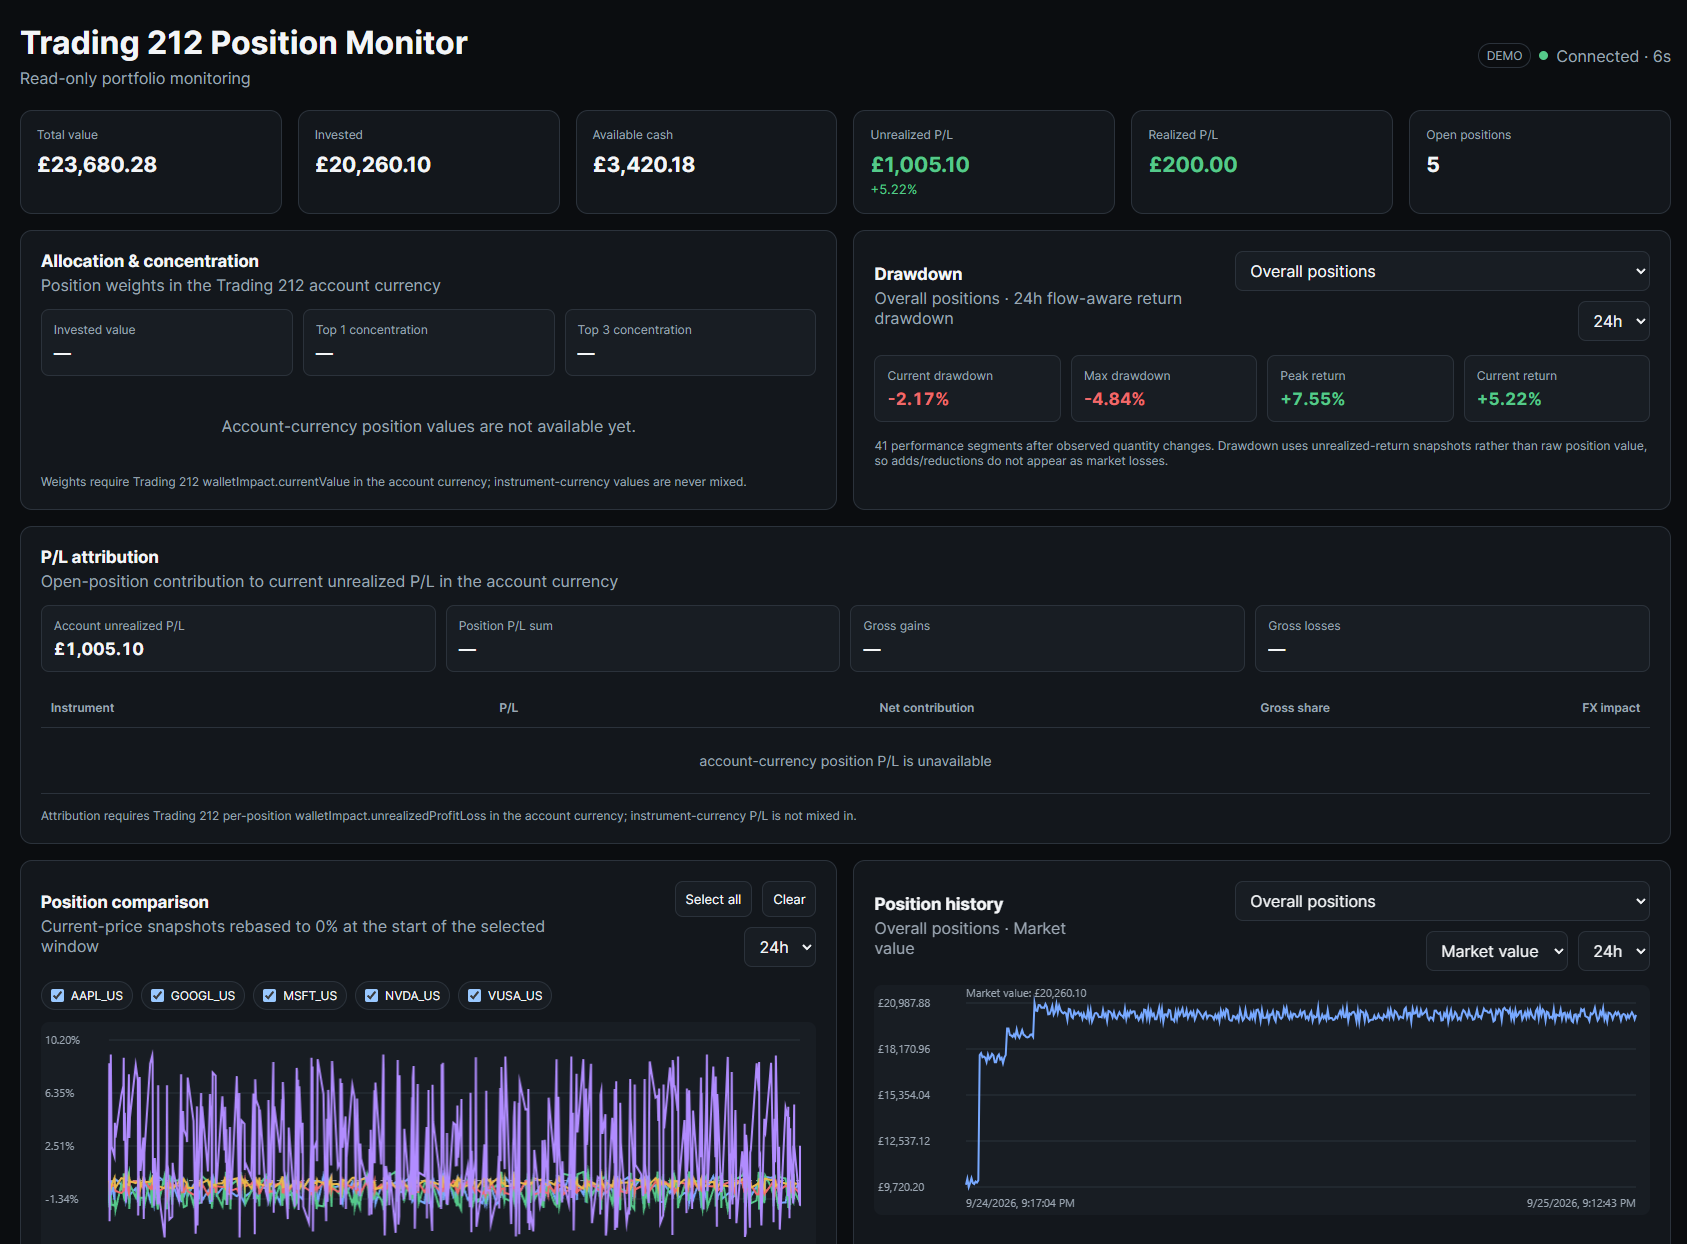
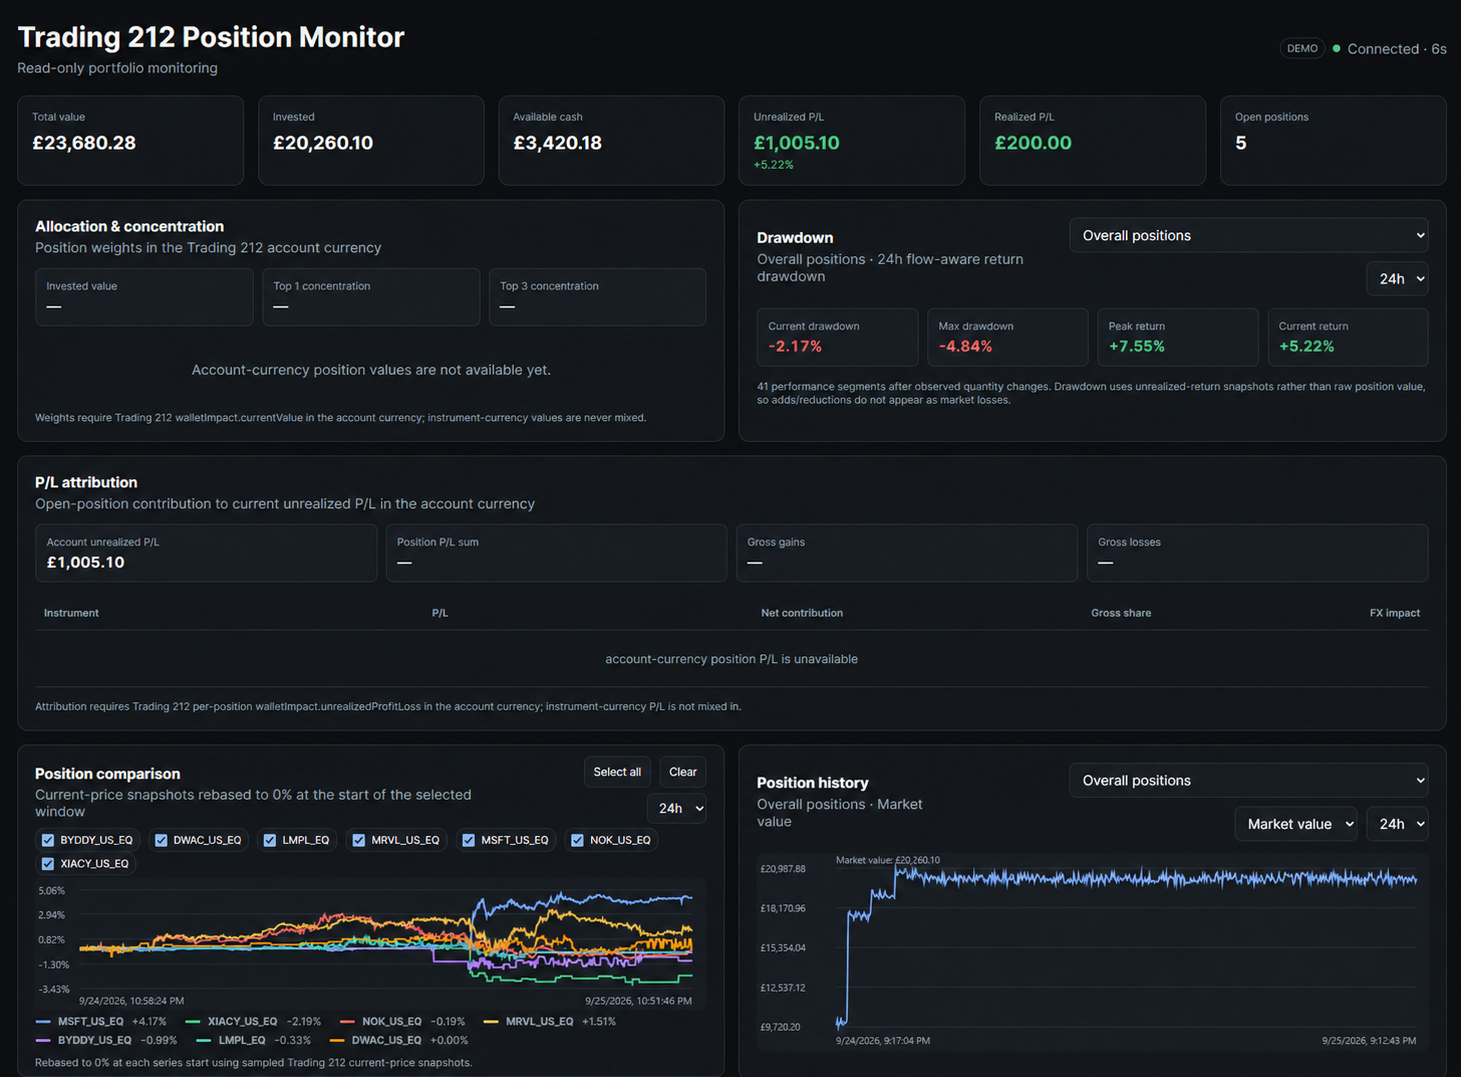
fix: CI gitleaks architecture mapping — x64 not amd64
- Fix: x86_64 maps to linux_x64 in release asset names (not amd64)
- Unknown architectures fail explicitly instead of silently defaulting
- Added gitleaks version verification after install

docs: add warning that screenshot values are fabricated demo data

Note: all chart values (balance, P&L, allocation, drawdown, lifecycle)
are synthetic and not representative of real output.

diff --git a/README.md b/README.md
@@ -35,6 +35,8 @@ A self-hosted, read-only Trading 212 portfolio monitoring and analytics dashboar
 |---|---|
 | ![Dashboard](docs/images/dashboard-overview.png) | ![Lifecycle](docs/images/position-lifecycle.png) |
 
+> **Warning:** These screenshots show synthetic demo data. All values — balance, P&L, allocation, drawdown, lifecycle events — are fabricated and **not** representative of any real account or accurate chart output.
+
 ## Quick Start
 
 ### Try the UI with synthetic data
